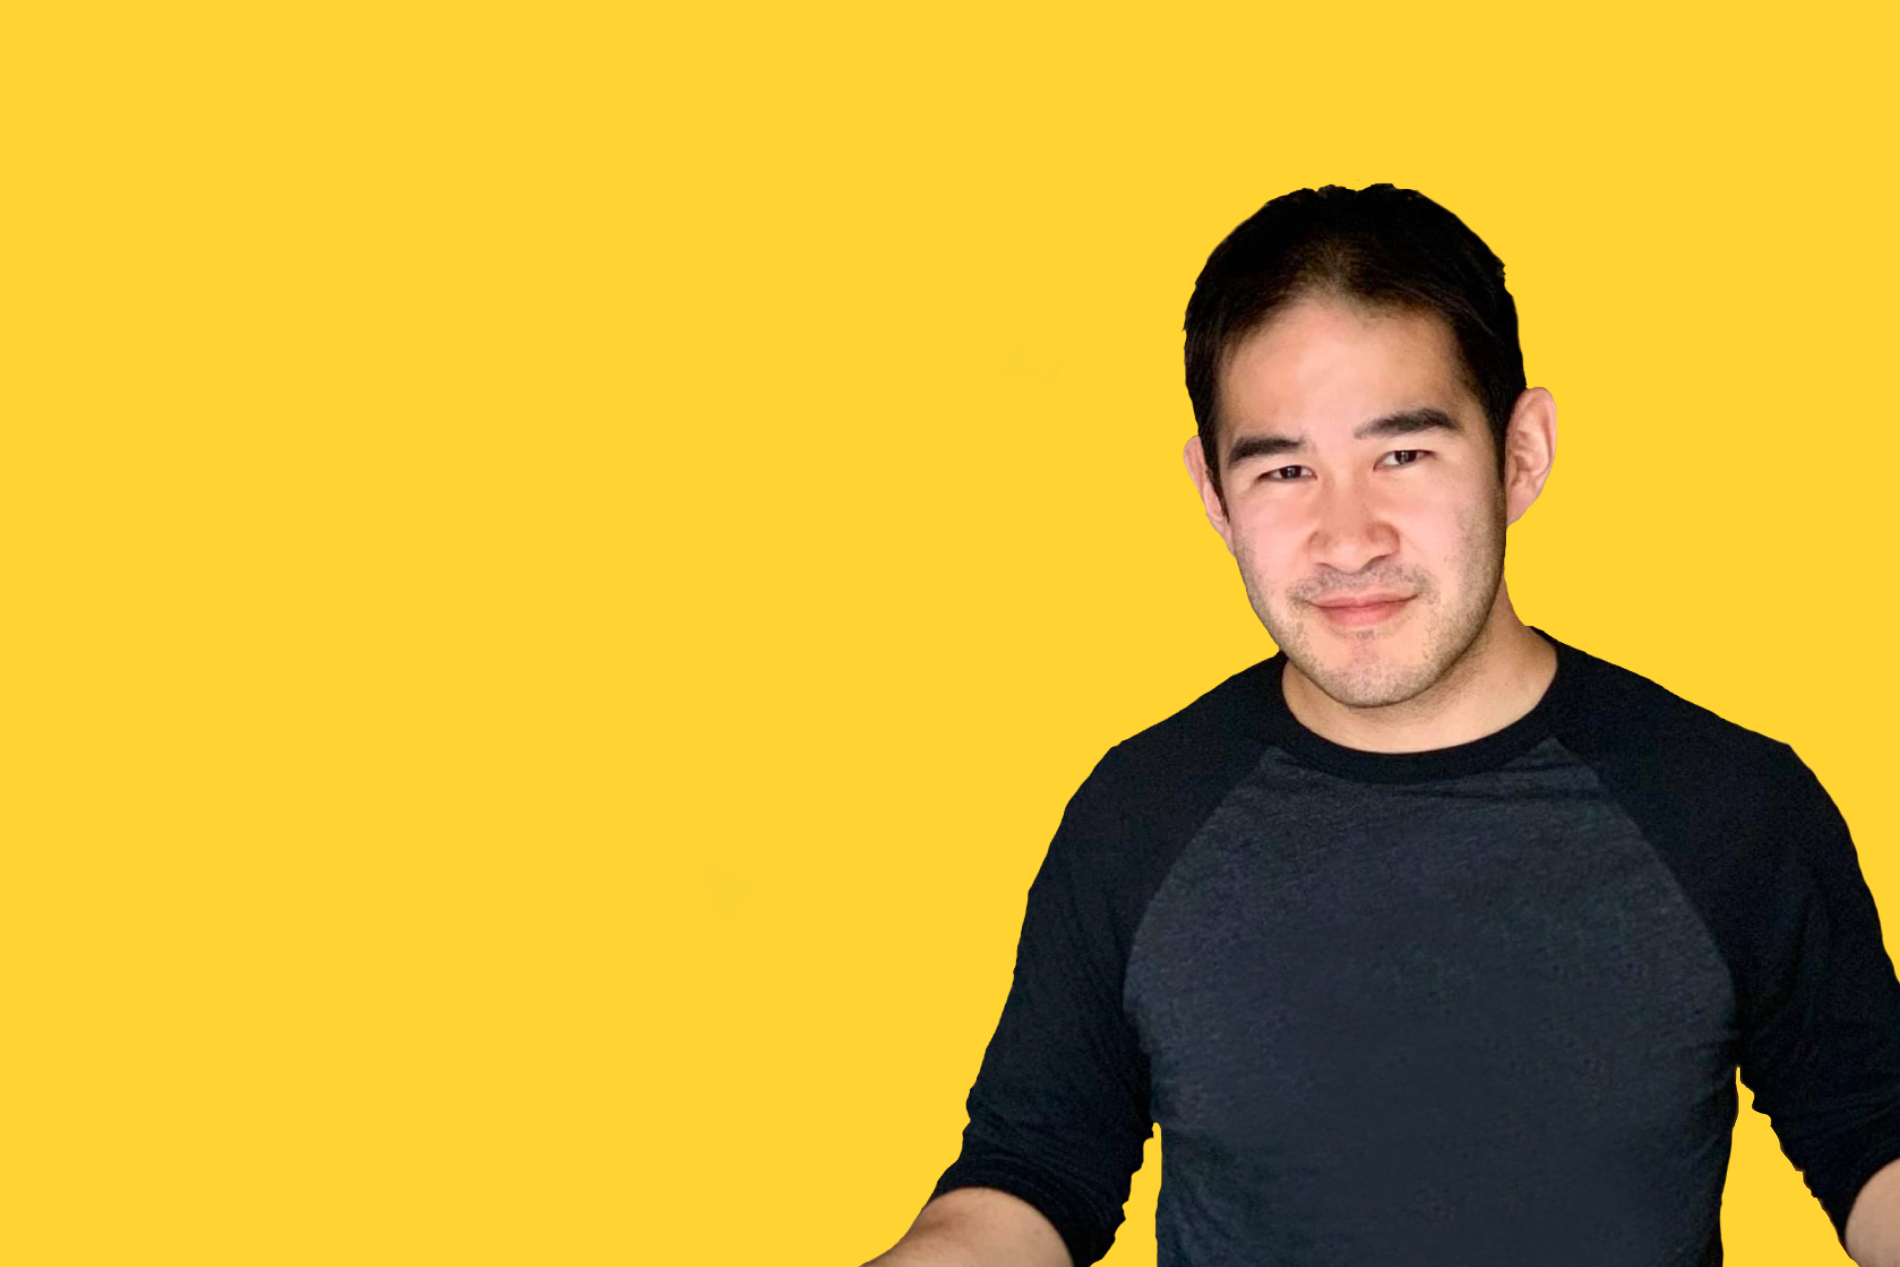
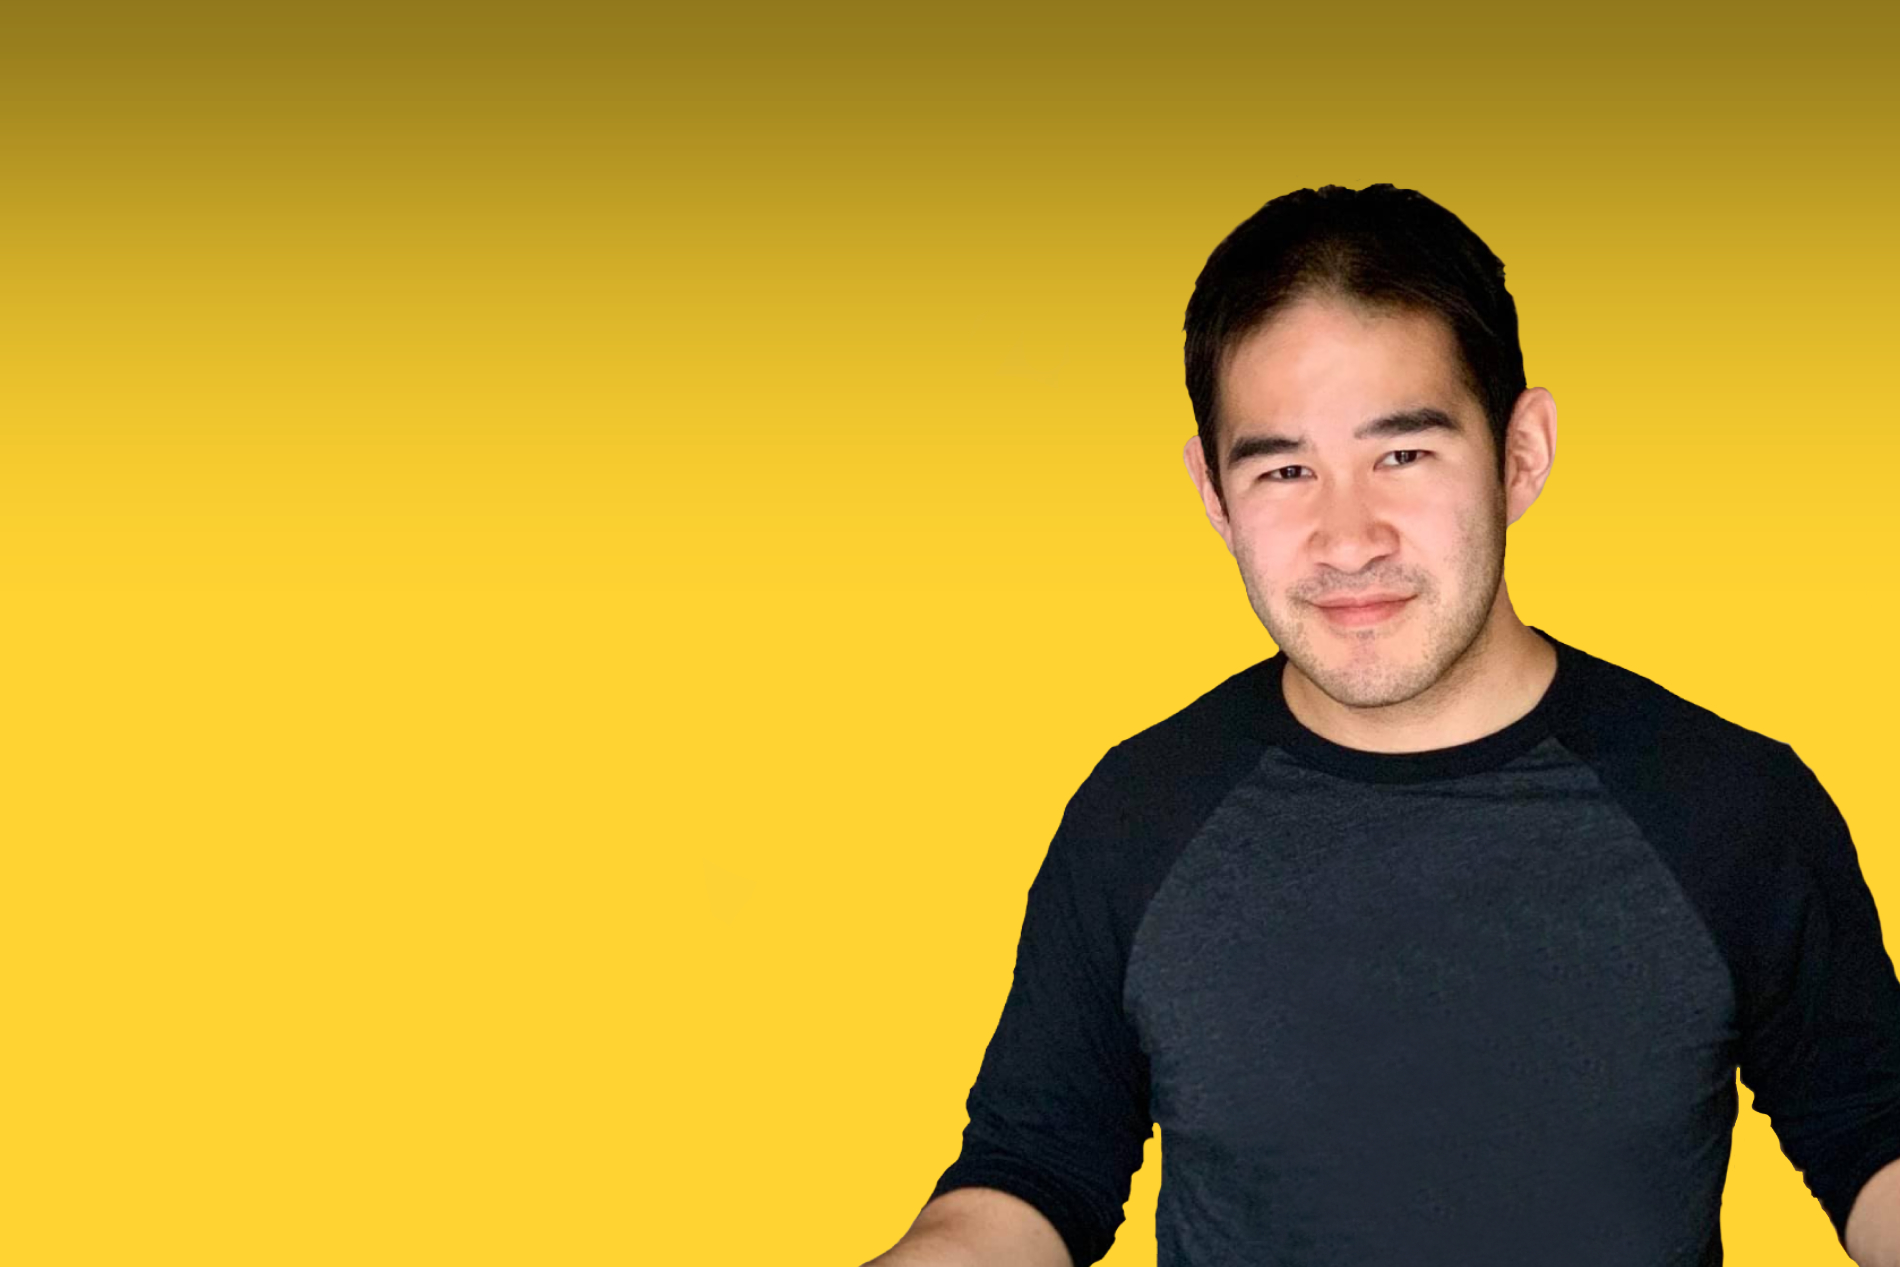
Fix masthead text, update About Me

Changed region(s): [[0.0, 0.0, 1.0, 0.3078]]

diff --git a/index.html b/index.html
@@ -41,11 +41,8 @@
           <div class="container h-100">
               <div class="row h-100 align-items-center justify-content-center">
                   <div class="col-lg-10 align-self-end">
-                      <h1 class="text-black">Hello World!</br> I'm <b>Brian</b></h1>
-                      <hr class="divider my-4" />
-                  </div>
-                  <div class="col-lg-8 align-self-baseline">
-                      <p class="text-white-75 font-weight-light mb-5">
+                      <h1 class="mast-text">Hello World!</br> I'm <b>Brian</b></h1>
+                      <p class="mast-text font-weight-light mb-5">
                         Full(er)-Stack Software Developer
                       </p>
                   </div>
@@ -60,14 +57,15 @@
                     <h2 class="text-white mt-0">About <b>Me</b></h2>
                     <hr class="divider my-4" />
                     <p class="text-white-50 mb-2">
-                      My name is Brian, I'm based in New York City and I consider myself a <i>Full(er)-Stack Developer.</i>
-                      Why? Because I spent almost a decade as a graphic designer in the world of concerts and entertainment
-                      and now I'm ready to solve some different kinds of problems! I can code your back-end, code your
-                      front-end, AND design it all too! I love challenges and rarely back down from one (that's how I ended
-                      up running my first marathon)so let's solve some problems together!
+                      My name is Brian, I'm a <i>Full(er)-Stack Engineer.</i> Why? Because I spent almost 10 years as a graphic designer
+                      in the world of concerts and entertainment and now I'm ready to solve some different kinds of problems! After dabbling in
+                      Python and basic web developement, I finally decided to switch careers in 2020 to combine problem solving, technology and
+                      creativity and joined General Assembly's Software Engineering Immersive Program, a 12-week bootcamp to begin my career as
+                      a Software Developer. Now, I can code your back-end, code your front-end, AND design it all too! I love challenges and
+                      rarely back down from one (that's how I ended up running my first marathon) so let's solve some problems together!
                     </p>
                     <p class="text-white-50 mb-2">
-                      I love learning new skills, making music, climbing, traveling, coding, and eating. Mostly eating...
+                      You can also find me making music, climbing, traveling, and eating. Mostly eating...
                     </p>
                   </div>
               </div>

diff --git a/css/styles.css b/css/styles.css
@@ -9850,6 +9850,10 @@ a.text-dark:hover, a.text-dark:focus {
   color: rgba(0, 0, 0, 0.5) !important;
 }
 
+.mast-text {
+  color: rgb(0, 0, 0) !important;
+}
+
 .text-white-50 {
   color: rgba(255, 255, 255, 0.5) !important;
 }
@@ -10075,7 +10079,7 @@ hr.light {
 header.masthead {
   padding-top: 10rem;
   padding-bottom: calc(10rem - 4.5rem);
-  background: linear-gradient(to bottom, rgba(92, 77, 66, 0.8) 0%, rgba(92, 77, 66, 0.8) 100%), url("../assets/img/bg-masthead.jpg");
+  background: url("../assets/img/bg-masthead.jpg");
   background-position: center;
   background-repeat: no-repeat;
   background-attachment: scroll;
